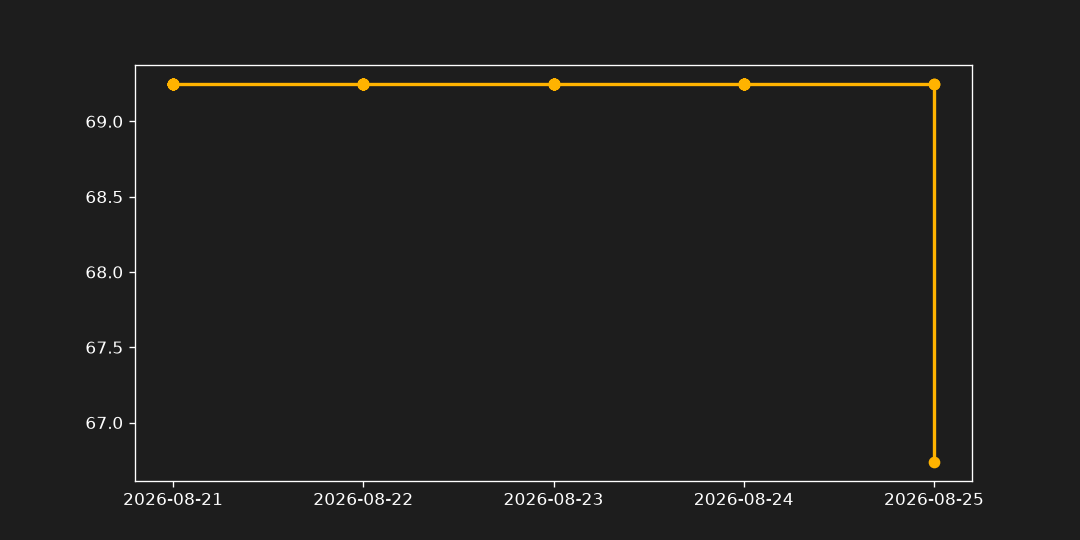
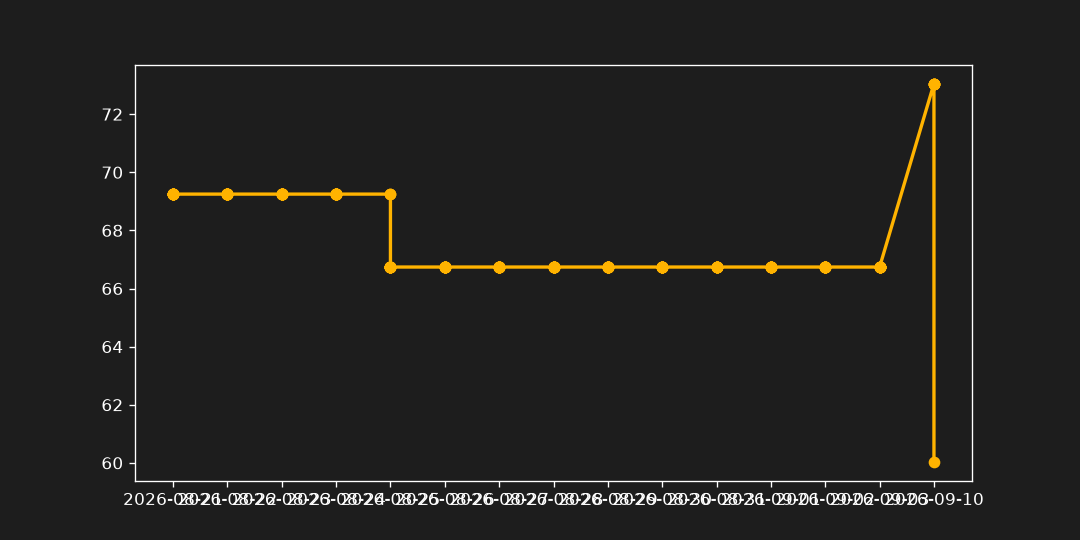
🤖 Bot Mac: Atualizando ofertas [skip ci]

diff --git a/index.html b/index.html
@@ -35,7 +35,7 @@
     <main class="max-w-7xl mx-auto grid grid-cols-1 sm:grid-cols-2 lg:grid-cols-3 xl:grid-cols-4 gap-6">
         
     <article class="relative flex flex-col bg-surface rounded-2xl border border-white/5 overflow-hidden hover:border-bardo-gold/40 transition-all duration-300 group shadow-lg">
-        <div class="absolute top-3 left-3 z-10"><span class="px-2.5 py-1 text-[11px] font-bold uppercase tracking-wider text-emerald-400 bg-emerald-500/10 border border-emerald-500/20 rounded-full backdrop-blur-md shadow-lg">Abaixo da Média</span></div>
+        
         <!-- Vitrine com Efeito Hover Swap -->
         <div class="relative h-64 w-full bg-gradient-to-b from-white/[0.03] to-transparent border-b border-white/5 overflow-hidden">
             <!-- Imagem 1: Capa (Soma ao Hover) -->
@@ -47,8 +47,8 @@
             <h3 class="text-base font-semibold text-gray-100 leading-snug line-clamp-2 mb-4 group-hover:text-bardo-gold transition-colors">Box Ficção Completa de Edgar Allan Poe</h3>
             <div class="flex flex-col mt-auto mb-5">
                 <div class="flex items-baseline gap-2">
-                    <span class="text-2xl font-bold text-white tracking-tight">R$ 160,99</span>
-                    <span class="text-sm text-gray-500 line-through">R$ 232,90</span>
+                    <span class="text-2xl font-bold text-white tracking-tight">R$ 279,90</span>
+                    <span class="text-sm text-gray-500 line-through">R$ 233,03</span>
                 </div>
             </div>
             <a href="https://link.amazon/B0bxqDHXJ" target="_blank" rel="nofollow noopener" class="w-full flex items-center justify-center gap-2 py-2.5 rounded-xl bg-white/5 hover:bg-bardo-gold hover:text-bardo-dark text-sm font-bold text-gray-200 transition-all">Comprar na Amazon</a>
@@ -68,7 +68,7 @@
             <div class="flex flex-col mt-auto mb-5">
                 <div class="flex items-baseline gap-2">
                     <span class="text-2xl font-bold text-white tracking-tight">R$ 60,58</span>
-                    <span class="text-sm text-gray-500 line-through">R$ 63,45</span>
+                    <span class="text-sm text-gray-500 line-through">R$ 63,44</span>
                 </div>
             </div>
             <a href="https://link.amazon/B05C027gt" target="_blank" rel="nofollow noopener" class="w-full flex items-center justify-center gap-2 py-2.5 rounded-xl bg-white/5 hover:bg-bardo-gold hover:text-bardo-dark text-sm font-bold text-gray-200 transition-all">Comprar na Amazon</a>
@@ -88,7 +88,7 @@
             <div class="flex flex-col mt-auto mb-5">
                 <div class="flex items-baseline gap-2">
                     <span class="text-2xl font-bold text-white tracking-tight">R$ 37,71</span>
-                    <span class="text-sm text-gray-500 line-through">R$ 47,11</span>
+                    <span class="text-sm text-gray-500 line-through">R$ 47,08</span>
                 </div>
             </div>
             <a href="https://link.amazon/B07BZ9Phr" target="_blank" rel="nofollow noopener" class="w-full flex items-center justify-center gap-2 py-2.5 rounded-xl bg-white/5 hover:bg-bardo-gold hover:text-bardo-dark text-sm font-bold text-gray-200 transition-all">Comprar na Amazon</a>
@@ -108,7 +108,7 @@
             <div class="flex flex-col mt-auto mb-5">
                 <div class="flex items-baseline gap-2">
                     <span class="text-2xl font-bold text-white tracking-tight">R$ 43,14</span>
-                    <span class="text-sm text-gray-500 line-through">R$ 39,68</span>
+                    <span class="text-sm text-gray-500 line-through">R$ 39,69</span>
                 </div>
             </div>
             <a href="https://link.amazon/B0ahQKnZG" target="_blank" rel="nofollow noopener" class="w-full flex items-center justify-center gap-2 py-2.5 rounded-xl bg-white/5 hover:bg-bardo-gold hover:text-bardo-dark text-sm font-bold text-gray-200 transition-all">Comprar na Amazon</a>
@@ -128,7 +128,7 @@
             <div class="flex flex-col mt-auto mb-5">
                 <div class="flex items-baseline gap-2">
                     <span class="text-2xl font-bold text-white tracking-tight">R$ 49,78</span>
-                    <span class="text-sm text-gray-500 line-through">R$ 47,43</span>
+                    <span class="text-sm text-gray-500 line-through">R$ 47,44</span>
                 </div>
             </div>
             <a href="https://link.amazon/B05Sr7Nr7" target="_blank" rel="nofollow noopener" class="w-full flex items-center justify-center gap-2 py-2.5 rounded-xl bg-white/5 hover:bg-bardo-gold hover:text-bardo-dark text-sm font-bold text-gray-200 transition-all">Comprar na Amazon</a>
@@ -168,7 +168,7 @@
             <div class="flex flex-col mt-auto mb-5">
                 <div class="flex items-baseline gap-2">
                     <span class="text-2xl font-bold text-white tracking-tight">R$ 132,93</span>
-                    <span class="text-sm text-gray-500 line-through">R$ 133,25</span>
+                    <span class="text-sm text-gray-500 line-through">R$ 133,24</span>
                 </div>
             </div>
             <a href="https://link.amazon/B0bOFsgQ9" target="_blank" rel="nofollow noopener" class="w-full flex items-center justify-center gap-2 py-2.5 rounded-xl bg-white/5 hover:bg-bardo-gold hover:text-bardo-dark text-sm font-bold text-gray-200 transition-all">Comprar na Amazon</a>
@@ -187,8 +187,8 @@
             <h3 class="text-base font-semibold text-gray-100 leading-snug line-clamp-2 mb-4 group-hover:text-bardo-gold transition-colors">Box Trilogia O Senhor dos Anéis</h3>
             <div class="flex flex-col mt-auto mb-5">
                 <div class="flex items-baseline gap-2">
-                    <span class="text-2xl font-bold text-white tracking-tight">R$ 228,06</span>
-                    <span class="text-sm text-gray-500 line-through">R$ 225,58</span>
+                    <span class="text-2xl font-bold text-white tracking-tight">R$ 228,12</span>
+                    <span class="text-sm text-gray-500 line-through">R$ 225,59</span>
                 </div>
             </div>
             <a href="https://link.amazon/B0cOS4omj" target="_blank" rel="nofollow noopener" class="w-full flex items-center justify-center gap-2 py-2.5 rounded-xl bg-white/5 hover:bg-bardo-gold hover:text-bardo-dark text-sm font-bold text-gray-200 transition-all">Comprar na Amazon</a>
@@ -208,7 +208,7 @@
             <div class="flex flex-col mt-auto mb-5">
                 <div class="flex items-baseline gap-2">
                     <span class="text-2xl font-bold text-white tracking-tight">R$ 59,36</span>
-                    <span class="text-sm text-gray-500 line-through">R$ 78,66</span>
+                    <span class="text-sm text-gray-500 line-through">R$ 78,60</span>
                 </div>
             </div>
             <a href="https://link.amazon/B0e2PzSTe" target="_blank" rel="nofollow noopener" class="w-full flex items-center justify-center gap-2 py-2.5 rounded-xl bg-white/5 hover:bg-bardo-gold hover:text-bardo-dark text-sm font-bold text-gray-200 transition-all">Comprar na Amazon</a>
@@ -228,7 +228,7 @@
             <div class="flex flex-col mt-auto mb-5">
                 <div class="flex items-baseline gap-2">
                     <span class="text-2xl font-bold text-white tracking-tight">R$ 82,94</span>
-                    <span class="text-sm text-gray-500 line-through">R$ 79,38</span>
+                    <span class="text-sm text-gray-500 line-through">R$ 79,39</span>
                 </div>
             </div>
             <a href="https://link.amazon/B01CIGwaZ" target="_blank" rel="nofollow noopener" class="w-full flex items-center justify-center gap-2 py-2.5 rounded-xl bg-white/5 hover:bg-bardo-gold hover:text-bardo-dark text-sm font-bold text-gray-200 transition-all">Comprar na Amazon</a>
@@ -248,7 +248,7 @@
             <div class="flex flex-col mt-auto mb-5">
                 <div class="flex items-baseline gap-2">
                     <span class="text-2xl font-bold text-white tracking-tight">R$ 426,83</span>
-                    <span class="text-sm text-gray-500 line-through">R$ 364,53</span>
+                    <span class="text-sm text-gray-500 line-through">R$ 364,70</span>
                 </div>
             </div>
             <a href="https://link.amazon/B0czAwuOp" target="_blank" rel="nofollow noopener" class="w-full flex items-center justify-center gap-2 py-2.5 rounded-xl bg-white/5 hover:bg-bardo-gold hover:text-bardo-dark text-sm font-bold text-gray-200 transition-all">Comprar na Amazon</a>
@@ -288,7 +288,7 @@
             <div class="flex flex-col mt-auto mb-5">
                 <div class="flex items-baseline gap-2">
                     <span class="text-2xl font-bold text-white tracking-tight">R$ 73,90</span>
-                    <span class="text-sm text-gray-500 line-through">R$ 68,49</span>
+                    <span class="text-sm text-gray-500 line-through">R$ 68,50</span>
                 </div>
             </div>
             <a href="https://link.amazon/B0bJ5jTSU" target="_blank" rel="nofollow noopener" class="w-full flex items-center justify-center gap-2 py-2.5 rounded-xl bg-white/5 hover:bg-bardo-gold hover:text-bardo-dark text-sm font-bold text-gray-200 transition-all">Comprar na Amazon</a>
@@ -308,7 +308,7 @@
             <div class="flex flex-col mt-auto mb-5">
                 <div class="flex items-baseline gap-2">
                     <span class="text-2xl font-bold text-white tracking-tight">R$ 56,90</span>
-                    <span class="text-sm text-gray-500 line-through">R$ 50,41</span>
+                    <span class="text-sm text-gray-500 line-through">R$ 50,42</span>
                 </div>
             </div>
             <a href="https://link.amazon/B075ASsRo" target="_blank" rel="nofollow noopener" class="w-full flex items-center justify-center gap-2 py-2.5 rounded-xl bg-white/5 hover:bg-bardo-gold hover:text-bardo-dark text-sm font-bold text-gray-200 transition-all">Comprar na Amazon</a>
@@ -368,7 +368,7 @@
             <div class="flex flex-col mt-auto mb-5">
                 <div class="flex items-baseline gap-2">
                     <span class="text-2xl font-bold text-white tracking-tight">R$ 126,03</span>
-                    <span class="text-sm text-gray-500 line-through">R$ 94,68</span>
+                    <span class="text-sm text-gray-500 line-through">R$ 94,77</span>
                 </div>
             </div>
             <a href="https://link.amazon/B0g8PJdyP" target="_blank" rel="nofollow noopener" class="w-full flex items-center justify-center gap-2 py-2.5 rounded-xl bg-white/5 hover:bg-bardo-gold hover:text-bardo-dark text-sm font-bold text-gray-200 transition-all">Comprar na Amazon</a>
@@ -388,7 +388,7 @@
             <div class="flex flex-col mt-auto mb-5">
                 <div class="flex items-baseline gap-2">
                     <span class="text-2xl font-bold text-white tracking-tight">R$ 152,85</span>
-                    <span class="text-sm text-gray-500 line-through">R$ 152,44</span>
+                    <span class="text-sm text-gray-500 line-through">R$ 152,45</span>
                 </div>
             </div>
             <a href="https://link.amazon/B09bDCyVl" target="_blank" rel="nofollow noopener" class="w-full flex items-center justify-center gap-2 py-2.5 rounded-xl bg-white/5 hover:bg-bardo-gold hover:text-bardo-dark text-sm font-bold text-gray-200 transition-all">Comprar na Amazon</a>
@@ -408,7 +408,7 @@
             <div class="flex flex-col mt-auto mb-5">
                 <div class="flex items-baseline gap-2">
                     <span class="text-2xl font-bold text-white tracking-tight">R$ 158,15</span>
-                    <span class="text-sm text-gray-500 line-through">R$ 138,13</span>
+                    <span class="text-sm text-gray-500 line-through">R$ 138,19</span>
                 </div>
             </div>
             <a href="https://link.amazon/B0cBFS3o1" target="_blank" rel="nofollow noopener" class="w-full flex items-center justify-center gap-2 py-2.5 rounded-xl bg-white/5 hover:bg-bardo-gold hover:text-bardo-dark text-sm font-bold text-gray-200 transition-all">Comprar na Amazon</a>
@@ -428,7 +428,7 @@
             <div class="flex flex-col mt-auto mb-5">
                 <div class="flex items-baseline gap-2">
                     <span class="text-2xl font-bold text-white tracking-tight">R$ 142,39</span>
-                    <span class="text-sm text-gray-500 line-through">R$ 146,66</span>
+                    <span class="text-sm text-gray-500 line-through">R$ 146,65</span>
                 </div>
             </div>
             <a href="https://link.amazon/B0f81O992" target="_blank" rel="nofollow noopener" class="w-full flex items-center justify-center gap-2 py-2.5 rounded-xl bg-white/5 hover:bg-bardo-gold hover:text-bardo-dark text-sm font-bold text-gray-200 transition-all">Comprar na Amazon</a>
@@ -548,7 +548,7 @@
             <div class="flex flex-col mt-auto mb-5">
                 <div class="flex items-baseline gap-2">
                     <span class="text-2xl font-bold text-white tracking-tight">R$ 76,63</span>
-                    <span class="text-sm text-gray-500 line-through">R$ 86,29</span>
+                    <span class="text-sm text-gray-500 line-through">R$ 86,26</span>
                 </div>
             </div>
             <a href="https://link.amazon/B0fHxeIhM" target="_blank" rel="nofollow noopener" class="w-full flex items-center justify-center gap-2 py-2.5 rounded-xl bg-white/5 hover:bg-bardo-gold hover:text-bardo-dark text-sm font-bold text-gray-200 transition-all">Comprar na Amazon</a>
@@ -568,7 +568,7 @@
             <div class="flex flex-col mt-auto mb-5">
                 <div class="flex items-baseline gap-2">
                     <span class="text-2xl font-bold text-white tracking-tight">R$ 76,38</span>
-                    <span class="text-sm text-gray-500 line-through">R$ 75,91</span>
+                    <span class="text-sm text-gray-500 line-through">R$ 75,92</span>
                 </div>
             </div>
             <a href="https://link.amazon/B09kGQop8" target="_blank" rel="nofollow noopener" class="w-full flex items-center justify-center gap-2 py-2.5 rounded-xl bg-white/5 hover:bg-bardo-gold hover:text-bardo-dark text-sm font-bold text-gray-200 transition-all">Comprar na Amazon</a>
@@ -588,7 +588,7 @@
             <div class="flex flex-col mt-auto mb-5">
                 <div class="flex items-baseline gap-2">
                     <span class="text-2xl font-bold text-white tracking-tight">R$ 284,84</span>
-                    <span class="text-sm text-gray-500 line-through">R$ 283,65</span>
+                    <span class="text-sm text-gray-500 line-through">R$ 283,66</span>
                 </div>
             </div>
             <a href="https://link.amazon/B046QvncM" target="_blank" rel="nofollow noopener" class="w-full flex items-center justify-center gap-2 py-2.5 rounded-xl bg-white/5 hover:bg-bardo-gold hover:text-bardo-dark text-sm font-bold text-gray-200 transition-all">Comprar na Amazon</a>
@@ -608,7 +608,7 @@
             <div class="flex flex-col mt-auto mb-5">
                 <div class="flex items-baseline gap-2">
                     <span class="text-2xl font-bold text-white tracking-tight">R$ 162,10</span>
-                    <span class="text-sm text-gray-500 line-through">R$ 191,54</span>
+                    <span class="text-sm text-gray-500 line-through">R$ 191,41</span>
                 </div>
             </div>
             <a href="https://link.amazon/B037mPoB1" target="_blank" rel="nofollow noopener" class="w-full flex items-center justify-center gap-2 py-2.5 rounded-xl bg-white/5 hover:bg-bardo-gold hover:text-bardo-dark text-sm font-bold text-gray-200 transition-all">Comprar na Amazon</a>
@@ -628,7 +628,7 @@
             <div class="flex flex-col mt-auto mb-5">
                 <div class="flex items-baseline gap-2">
                     <span class="text-2xl font-bold text-white tracking-tight">R$ 32,41</span>
-                    <span class="text-sm text-gray-500 line-through">R$ 37,31</span>
+                    <span class="text-sm text-gray-500 line-through">R$ 37,29</span>
                 </div>
             </div>
             <a href="https://link.amazon/B0ja4Ste6" target="_blank" rel="nofollow noopener" class="w-full flex items-center justify-center gap-2 py-2.5 rounded-xl bg-white/5 hover:bg-bardo-gold hover:text-bardo-dark text-sm font-bold text-gray-200 transition-all">Comprar na Amazon</a>
@@ -668,7 +668,7 @@
             <div class="flex flex-col mt-auto mb-5">
                 <div class="flex items-baseline gap-2">
                     <span class="text-2xl font-bold text-white tracking-tight">R$ 52,21</span>
-                    <span class="text-sm text-gray-500 line-through">R$ 57,18</span>
+                    <span class="text-sm text-gray-500 line-through">R$ 57,16</span>
                 </div>
             </div>
             <a href="https://link.amazon/B0gViTEpL" target="_blank" rel="nofollow noopener" class="w-full flex items-center justify-center gap-2 py-2.5 rounded-xl bg-white/5 hover:bg-bardo-gold hover:text-bardo-dark text-sm font-bold text-gray-200 transition-all">Comprar na Amazon</a>
@@ -688,7 +688,7 @@
             <div class="flex flex-col mt-auto mb-5">
                 <div class="flex items-baseline gap-2">
                     <span class="text-2xl font-bold text-white tracking-tight">R$ 46,27</span>
-                    <span class="text-sm text-gray-500 line-through">R$ 48,41</span>
+                    <span class="text-sm text-gray-500 line-through">R$ 48,40</span>
                 </div>
             </div>
             <a href="https://link.amazon/B08nADndv" target="_blank" rel="nofollow noopener" class="w-full flex items-center justify-center gap-2 py-2.5 rounded-xl bg-white/5 hover:bg-bardo-gold hover:text-bardo-dark text-sm font-bold text-gray-200 transition-all">Comprar na Amazon</a>
@@ -728,14 +728,14 @@
             <div class="flex flex-col mt-auto mb-5">
                 <div class="flex items-baseline gap-2">
                     <span class="text-2xl font-bold text-white tracking-tight">R$ 63,90</span>
-                    <span class="text-sm text-gray-500 line-through">R$ 65,36</span>
+                    <span class="text-sm text-gray-500 line-through">R$ 65,35</span>
                 </div>
             </div>
             <a href="https://link.amazon/B0gpt2mie" target="_blank" rel="nofollow noopener" class="w-full flex items-center justify-center gap-2 py-2.5 rounded-xl bg-white/5 hover:bg-bardo-gold hover:text-bardo-dark text-sm font-bold text-gray-200 transition-all">Comprar na Amazon</a>
         </div>
     </article>
     <article class="relative flex flex-col bg-surface rounded-2xl border border-white/5 overflow-hidden hover:border-bardo-gold/40 transition-all duration-300 group shadow-lg">
-        
+        <div class="absolute top-3 left-3 z-10"><span class="px-2.5 py-1 text-[11px] font-bold uppercase tracking-wider text-emerald-400 bg-emerald-500/10 border border-emerald-500/20 rounded-full backdrop-blur-md shadow-lg">Abaixo da Média</span></div>
         <!-- Vitrine com Efeito Hover Swap -->
         <div class="relative h-64 w-full bg-gradient-to-b from-white/[0.03] to-transparent border-b border-white/5 overflow-hidden">
             <!-- Imagem 1: Capa (Soma ao Hover) -->
@@ -747,8 +747,8 @@
             <h3 class="text-base font-semibold text-gray-100 leading-snug line-clamp-2 mb-4 group-hover:text-bardo-gold transition-colors">Chama de Ferro</h3>
             <div class="flex flex-col mt-auto mb-5">
                 <div class="flex items-baseline gap-2">
-                    <span class="text-2xl font-bold text-white tracking-tight">R$ 73,05</span>
-                    <span class="text-sm text-gray-500 line-through">R$ 67,64</span>
+                    <span class="text-2xl font-bold text-white tracking-tight">R$ 60,04</span>
+                    <span class="text-sm text-gray-500 line-through">R$ 67,60</span>
                 </div>
             </div>
             <a href="https://link.amazon/B053gl2cU" target="_blank" rel="nofollow noopener" class="w-full flex items-center justify-center gap-2 py-2.5 rounded-xl bg-white/5 hover:bg-bardo-gold hover:text-bardo-dark text-sm font-bold text-gray-200 transition-all">Comprar na Amazon</a>
@@ -768,7 +768,7 @@
             <div class="flex flex-col mt-auto mb-5">
                 <div class="flex items-baseline gap-2">
                     <span class="text-2xl font-bold text-white tracking-tight">R$ 63,15</span>
-                    <span class="text-sm text-gray-500 line-through">R$ 61,50</span>
+                    <span class="text-sm text-gray-500 line-through">R$ 61,51</span>
                 </div>
             </div>
             <a href="https://link.amazon/B09R1newk" target="_blank" rel="nofollow noopener" class="w-full flex items-center justify-center gap-2 py-2.5 rounded-xl bg-white/5 hover:bg-bardo-gold hover:text-bardo-dark text-sm font-bold text-gray-200 transition-all">Comprar na Amazon</a>
@@ -788,7 +788,7 @@
             <div class="flex flex-col mt-auto mb-5">
                 <div class="flex items-baseline gap-2">
                     <span class="text-2xl font-bold text-white tracking-tight">R$ 36,56</span>
-                    <span class="text-sm text-gray-500 line-through">R$ 37,68</span>
+                    <span class="text-sm text-gray-500 line-through">R$ 37,67</span>
                 </div>
             </div>
             <a href="https://link.amazon/B0aKkKOM2" target="_blank" rel="nofollow noopener" class="w-full flex items-center justify-center gap-2 py-2.5 rounded-xl bg-white/5 hover:bg-bardo-gold hover:text-bardo-dark text-sm font-bold text-gray-200 transition-all">Comprar na Amazon</a>
@@ -808,7 +808,7 @@
             <div class="flex flex-col mt-auto mb-5">
                 <div class="flex items-baseline gap-2">
                     <span class="text-2xl font-bold text-white tracking-tight">R$ 156,26</span>
-                    <span class="text-sm text-gray-500 line-through">R$ 165,46</span>
+                    <span class="text-sm text-gray-500 line-through">R$ 165,42</span>
                 </div>
             </div>
             <a href="https://link.amazon/B02R68ory" target="_blank" rel="nofollow noopener" class="w-full flex items-center justify-center gap-2 py-2.5 rounded-xl bg-white/5 hover:bg-bardo-gold hover:text-bardo-dark text-sm font-bold text-gray-200 transition-all">Comprar na Amazon</a>
@@ -848,7 +848,7 @@
             <div class="flex flex-col mt-auto mb-5">
                 <div class="flex items-baseline gap-2">
                     <span class="text-2xl font-bold text-white tracking-tight">R$ 316,45</span>
-                    <span class="text-sm text-gray-500 line-through">R$ 449,07</span>
+                    <span class="text-sm text-gray-500 line-through">R$ 448,51</span>
                 </div>
             </div>
             <a href="https://link.amazon/B04zvHdbV" target="_blank" rel="nofollow noopener" class="w-full flex items-center justify-center gap-2 py-2.5 rounded-xl bg-white/5 hover:bg-bardo-gold hover:text-bardo-dark text-sm font-bold text-gray-200 transition-all">Comprar na Amazon</a>
@@ -868,7 +868,7 @@
             <div class="flex flex-col mt-auto mb-5">
                 <div class="flex items-baseline gap-2">
                     <span class="text-2xl font-bold text-white tracking-tight">R$ 84,50</span>
-                    <span class="text-sm text-gray-500 line-through">R$ 87,14</span>
+                    <span class="text-sm text-gray-500 line-through">R$ 87,13</span>
                 </div>
             </div>
             <a href="https://link.amazon/B0fzjvtp7" target="_blank" rel="nofollow noopener" class="w-full flex items-center justify-center gap-2 py-2.5 rounded-xl bg-white/5 hover:bg-bardo-gold hover:text-bardo-dark text-sm font-bold text-gray-200 transition-all">Comprar na Amazon</a>
@@ -928,7 +928,7 @@
             <div class="flex flex-col mt-auto mb-5">
                 <div class="flex items-baseline gap-2">
                     <span class="text-2xl font-bold text-white tracking-tight">R$ 62,60</span>
-                    <span class="text-sm text-gray-500 line-through">R$ 65,57</span>
+                    <span class="text-sm text-gray-500 line-through">R$ 65,56</span>
                 </div>
             </div>
             <a href="https://link.amazon/B0jllWIXN" target="_blank" rel="nofollow noopener" class="w-full flex items-center justify-center gap-2 py-2.5 rounded-xl bg-white/5 hover:bg-bardo-gold hover:text-bardo-dark text-sm font-bold text-gray-200 transition-all">Comprar na Amazon</a>
@@ -988,7 +988,7 @@
             <div class="flex flex-col mt-auto mb-5">
                 <div class="flex items-baseline gap-2">
                     <span class="text-2xl font-bold text-white tracking-tight">R$ 314,60</span>
-                    <span class="text-sm text-gray-500 line-through">R$ 317,32</span>
+                    <span class="text-sm text-gray-500 line-through">R$ 317,31</span>
                 </div>
             </div>
             <a href="https://link.amazon/B02mXXqIa" target="_blank" rel="nofollow noopener" class="w-full flex items-center justify-center gap-2 py-2.5 rounded-xl bg-white/5 hover:bg-bardo-gold hover:text-bardo-dark text-sm font-bold text-gray-200 transition-all">Comprar na Amazon</a>
@@ -1008,7 +1008,7 @@
             <div class="flex flex-col mt-auto mb-5">
                 <div class="flex items-baseline gap-2">
                     <span class="text-2xl font-bold text-white tracking-tight">R$ 223,00</span>
-                    <span class="text-sm text-gray-500 line-through">R$ 230,49</span>
+                    <span class="text-sm text-gray-500 line-through">R$ 230,45</span>
                 </div>
             </div>
             <a href="https://link.amazon/B01sIcUyP" target="_blank" rel="nofollow noopener" class="w-full flex items-center justify-center gap-2 py-2.5 rounded-xl bg-white/5 hover:bg-bardo-gold hover:text-bardo-dark text-sm font-bold text-gray-200 transition-all">Comprar na Amazon</a>
